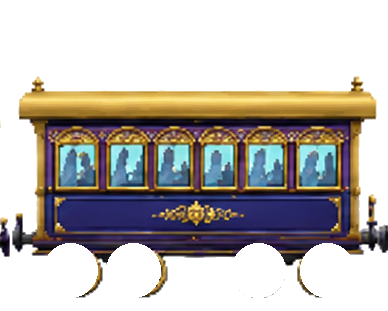
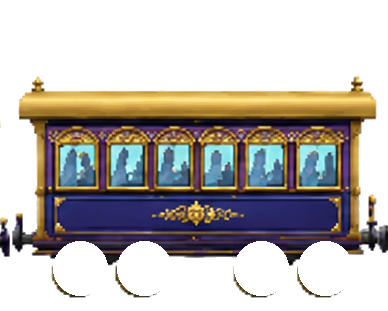
Add files via upload

diff --git a/train/train.html b/train/train.html
@@ -3,7 +3,7 @@
 <head>
   <meta charset="utf-8" />
   <meta name="viewport" content="width=device-width, initial-scale=1, viewport-fit=cover" />
-  <title>قطار الإجابات - إصدار 4</title>
+  <title>قطار الإجابات - إصدار 6</title>
   <style>
     :root{
       --safe-top:env(safe-area-inset-top,0px);
@@ -192,39 +192,78 @@
     .coal{width:calc(var(--train-h) * 195 / 311)}
     .loco{width:calc(var(--train-h) * 485 / 311)}
 
-    /* train-5: العجلات الثابتة أزيلت من صور القطار، وهذه العجلات المتحركة تركب فوق مواقعها الأصلية بدقة. */
+    /* train-6: العجلات الآن صور مستقلة مأخوذة من نفس القطار ومركبة على فتحات العجلات بدقة. */
     .wheel{
       position:absolute;
       z-index:2;
       aspect-ratio:1/1;
       border-radius:50%;
       pointer-events:none;
-      animation:wheelSpin .8s linear infinite;
+      animation:wheelSpin .82s linear infinite;
       transform-origin:center center;
-      background:
-        radial-gradient(circle at center,#fff4a6 0 8%,#b98220 9% 15%,transparent 16%),
-        repeating-conic-gradient(from 0deg,#f4d871 0 5deg,transparent 6deg 29deg),
-        radial-gradient(circle at center,transparent 0 45%,#f7d876 46% 55%,#6d4214 56% 67%,#e3b847 68% 78%,transparent 79%);
-      border:1.5px solid rgba(70,40,12,.82);
-      box-shadow:inset 0 0 0 2px rgba(255,236,134,.38),0 2px 3px rgba(0,0,0,.18);
+      background-size:contain;
+      background-repeat:no-repeat;
+      background-position:center center;
+      filter:drop-shadow(0 1px 1px rgba(0,0,0,.18));
+      will-change:transform;
     }
 
     @keyframes wheelSpin{to{transform:rotate(360deg)}}
 
-    /* train-5: المواضع محسوبة من الصورة الأصلية بعد إزالة العجلات الثابتة. */
-    .car .wheel{width:13.85%;bottom:4.50%}
-    .car .w1{left:9.74%}.car .w2{left:27.44%}.car .w3{left:60.77%}.car .w4{left:78.72%}
+    /* عربات الإجابات: نفس مواقع عجلات الصورة الأصلية بعد إزالة العجلات الثابتة. */
+    .car .wheel{
+      width:13.846%;
+      bottom:5.466%;
+      background-image:url('wheelCar.png');
+    }
+    .car .w1{left:10.000%}
+    .car .w2{left:27.692%}
+    .car .w3{left:61.795%}
+    .car .w4{left:78.974%}
 
-    .passenger .wheel{width:13.92%;bottom:4.50%}
-    .passenger .w1{left:11.08%}.passenger .w2{left:27.32%}.passenger .w3{left:59.54%}.passenger .w4{left:77.32%}
+    /* مقطورة الركاب. */
+    .passenger .wheel{
+      width:13.918%;
+      bottom:5.145%;
+      background-image:url('wheelCar.png');
+    }
+    .passenger .w1{left:13.660%}
+    .passenger .w2{left:30.155%}
+    .passenger .w3{left:60.309%}
+    .passenger .w4{left:76.804%}
 
-    .coal .wheel{width:27.70%;bottom:4.50%}
-    .coal .w1{left:29.74%}.coal .w2{left:60.51%}
+    /* عربة الفحم. */
+    .coal .wheel{
+      width:27.692%;
+      bottom:5.145%;
+      background-image:url('wheelCar.png');
+    }
+    .coal .w1{left:28.205%}
+    .coal .w2{left:63.077%}
 
-    .loco .wheel{animation-duration:.86s}
-    .loco .big{width:23.10%;left:7.84%;bottom:6.43%;animation-duration:1s}
-    .loco .mid{width:18.15%;left:40.82%;bottom:9.32%;animation-duration:.86s}
-    .loco .small{width:18.15%;left:64.12%;bottom:9.32%;animation-duration:.82s}
+    /* القاطرة. */
+    .loco .wheel{animation-duration:.88s}
+    .loco .big{
+      width:25.979%;
+      left:8.247%;
+      bottom:8.682%;
+      background-image:url('wheelL.png');
+      animation-duration:1.02s;
+    }
+    .loco .mid{
+      width:18.144%;
+      left:42.268%;
+      bottom:7.717%;
+      background-image:url('wheelM.png');
+      animation-duration:.88s;
+    }
+    .loco .small{
+      width:18.144%;
+      left:66.804%;
+      bottom:7.717%;
+      background-image:url('wheelS.png');
+      animation-duration:.84s;
+    }
 
     @media (orientation:landscape){
       :root{--train-h:clamp(110px, 29dvh, 190px)}
